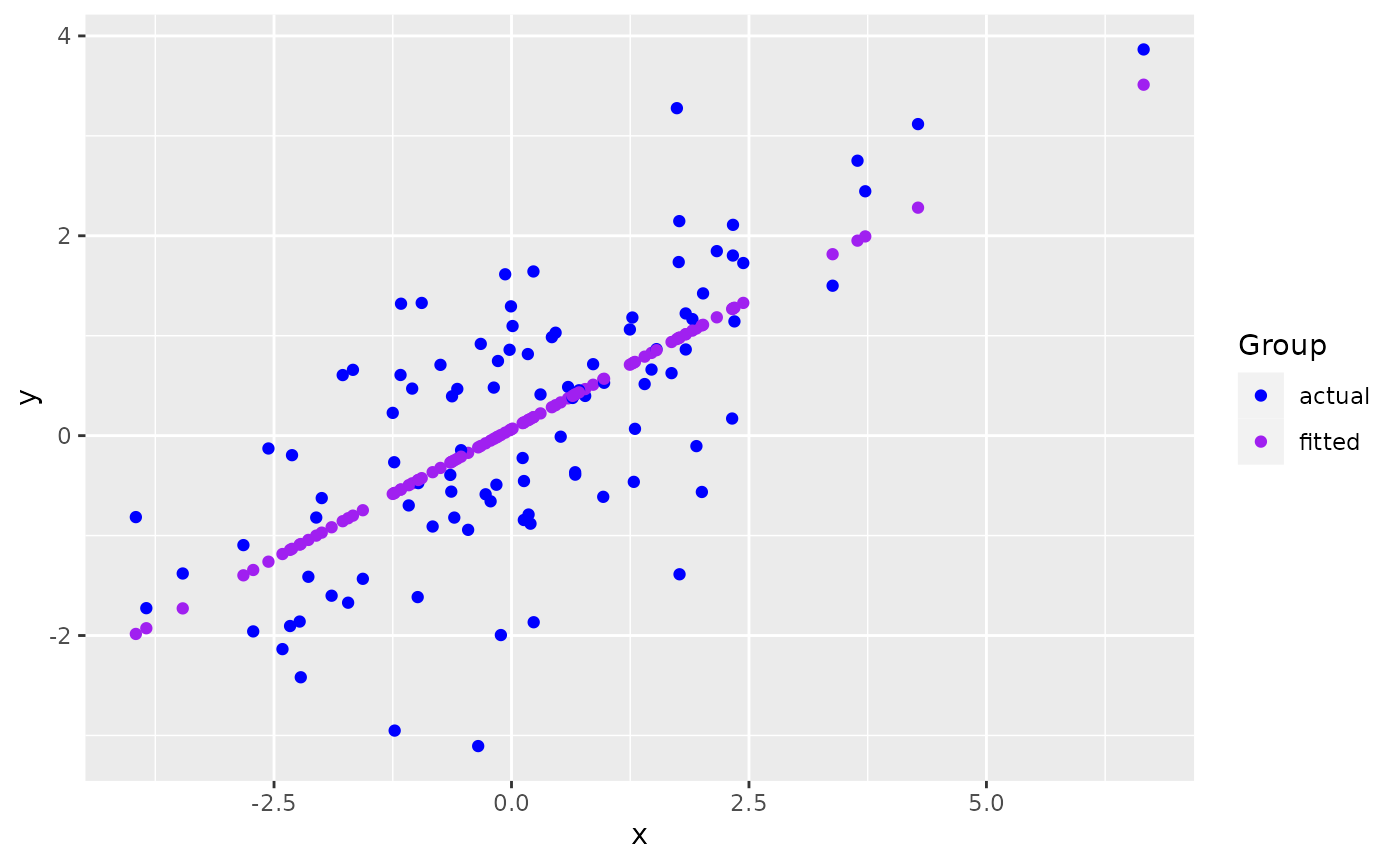
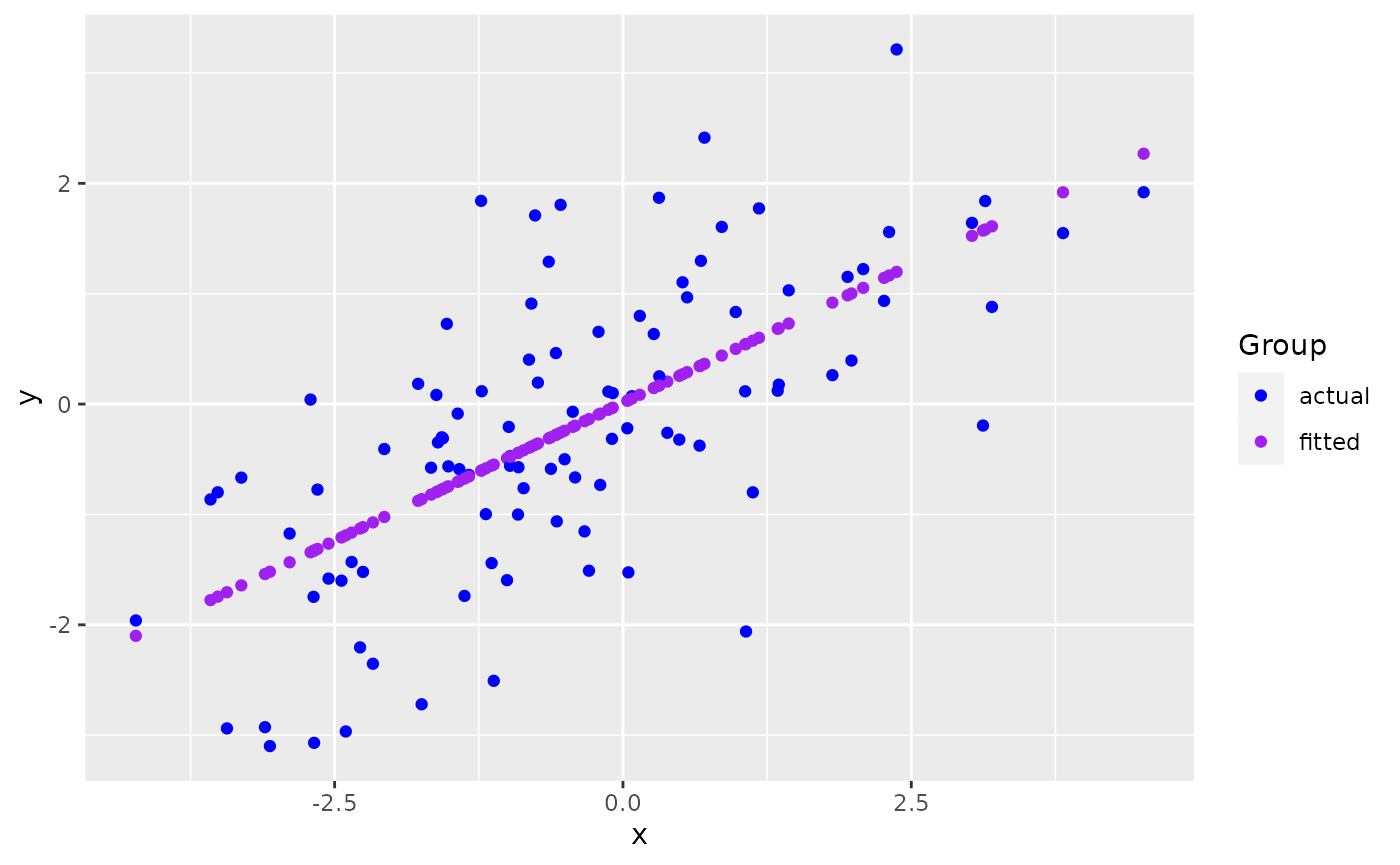
Built site for ggmatplot: 0.1.0@5ae71f6

diff --git a/articles/ggmatplot.html b/articles/ggmatplot.html
@@ -101,7 +101,7 @@
 <span class="va">x</span> <span class="op">&lt;-</span> <span class="fu"><a href="https://rdrr.io/r/base/c.html">c</a></span><span class="op">(</span><span class="fu"><a href="https://rdrr.io/r/stats/Normal.html">rnorm</a></span><span class="op">(</span><span class="fl">100</span>, sd <span class="op">=</span> <span class="fl">2</span><span class="op">)</span><span class="op">)</span>
 
 <span class="fu"><a href="https://rdrr.io/r/utils/head.html">head</a></span><span class="op">(</span><span class="va">x</span><span class="op">)</span>
-<span class="co">#&gt; [1]  3.6426071  1.4740272 -1.2300122 -0.6441279 -1.8939179  1.8345346</span>
+<span class="co">#&gt; [1] -1.5611778 -0.3331428 -0.9101496 -0.7941767 -1.4189775  4.5147747</span>
 
 <span class="co"># matrix z</span>
 <span class="va">y</span> <span class="op">&lt;-</span> <span class="va">x</span> <span class="op">*</span> <span class="fl">0.5</span> <span class="op">+</span> <span class="fu"><a href="https://rdrr.io/r/stats/Normal.html">rnorm</a></span><span class="op">(</span><span class="fl">100</span>, sd <span class="op">=</span> <span class="fl">1</span><span class="op">)</span>
@@ -111,12 +111,12 @@
 
 <span class="fu"><a href="https://rdrr.io/r/utils/head.html">head</a></span><span class="op">(</span><span class="va">z</span><span class="op">)</span>
 <span class="co">#&gt;       actual     fitted</span>
-<span class="co">#&gt; 1  2.7512611  1.9513781</span>
-<span class="co">#&gt; 2  0.6612367  0.8280013</span>
-<span class="co">#&gt; 3 -2.9514021 -0.5727566</span>
-<span class="co">#&gt; 4 -0.3929319 -0.2692543</span>
-<span class="co">#&gt; 5 -1.6016800 -0.9166758</span>
-<span class="co">#&gt; 6  0.8624170  1.0147528</span></code></pre></div>
+<span class="co">#&gt; 1 -0.3098364 -0.7688639</span>
+<span class="co">#&gt; 2 -1.1533775 -0.1549690</span>
+<span class="co">#&gt; 3 -1.0007607 -0.4434148</span>
+<span class="co">#&gt; 4  0.9104163 -0.3854399</span>
+<span class="co">#&gt; 5 -0.5893815 -0.6977780</span>
+<span class="co">#&gt; 6  1.9195787  2.2685061</span></code></pre></div>
 <p><code>ggmatplot</code> plots vector <code>x</code> against each column of matrix <code>z</code> using the default <code>plot_type = "point"</code>. This will be represented on the resulting plot as two groups, identified using different shapes and colors.</p>
 <div class="sourceCode" id="cb2"><pre class="downlit sourceCode r">
 <code class="sourceCode R"><span class="kw"><a href="https://rdrr.io/r/base/library.html">library</a></span><span class="op">(</span><span class="va"><a href="https://github.com/xuan-liang/ggmatplot">ggmatplot</a></span><span class="op">)</span>

diff --git a/reference/ggmatplot.html b/reference/ggmatplot.html
@@ -235,6 +235,10 @@ those that can be passed on to the <a href='#plot-types'>underlying ggplot layer
     </tr>
     </table>
 
+    <h2 class="hasAnchor" id="value"><a class="anchor" href="#value"></a>Value</h2>
+
+    <p>A ggplot object. The columns of the input matrices will be plotted
+against each other using the defined plot type.</p>
     <h2 class="hasAnchor" id="plot-types"><a class="anchor" href="#plot-types"></a>Plot Types</h2>
 
     
